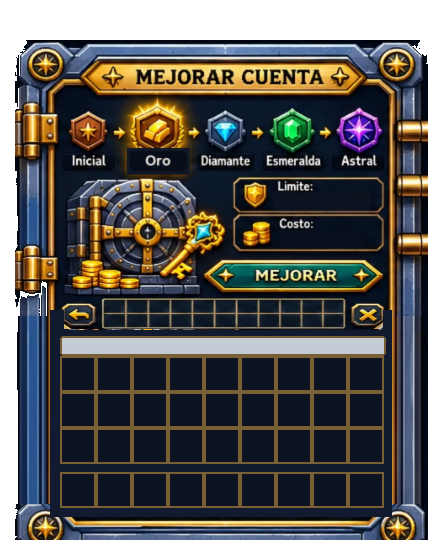
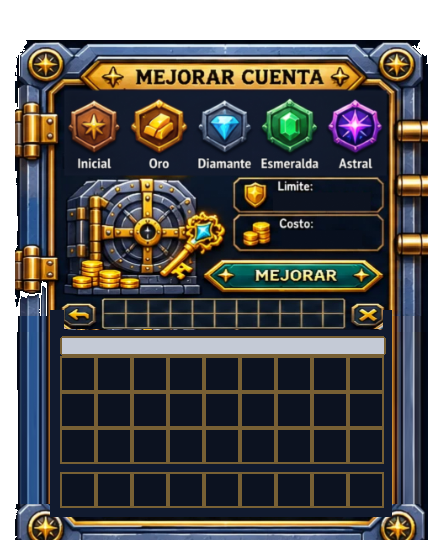
Banco: Mejorar cuenta remarca el nivel actual con arte de Gemini
- Fila de niveles redibujada por Gemini (sin brillo y con brillo); solo el nivel de la cuenta
  lleva brillo y borde dorado
- Una pantalla Mejorar por nivel (titulo banco.titulo::mejorarN elegido en astral_economia.sk)
- Banco: costados del inventario sin la sombra del perno y esquinas de abajo enteras

Changed region(s): [[0.1562, 0.1518, 0.875, 0.3036]]

diff --git a/datapack-src/ventanas_20_11.py b/datapack-src/ventanas_20_11.py
@@ -226,28 +226,42 @@ def _borrar(im, caja):
     ImageDraw.Draw(im).rectangle((x0, y0, x1 - 1, y1 - 1), fill=tuple(int(v) for v in np.median(anillo, 0)))
 
 
-def _oro_sin_resaltar(im):
-    """En 'Mejorar' la hoja marca 'Oro' como elegido; en el juego el siguiente nivel cambia: se deja como los demas."""
-    from PIL import ImageFont
-    caja = (148, 637, 222, 668)
-    a = np.asarray(im.convert('RGB')).astype(int)
-    fondo = tuple(int(v) for v in np.median(a[645:660, 280:300].reshape(-1, 3), 0))   # caja de 'Diamante'
-    d = ImageDraw.Draw(im)
-    d.rectangle(caja, fill=(16, 24, 40))
-    d.rounded_rectangle((152, 641, 218, 664), 4, fill=fondo)
-    try:
-        f = ImageFont.truetype('arialbd.ttf', 17)
-    except OSError:
-        f = ImageFont.load_default()
-    d.text((185, 652), 'Oro', fill=(240, 236, 226), font=f, anchor='mm')
+# Fila de niveles de 'Mejorar' redibujada por Gemini (20/11): una hoja sin brillo y otra con brillo, mismos lugares.
+NIVELES_HOJA = {k: SRC / f'niveles_{k}.jpg' for k in ('normal', 'brillo')}
+NIVELES_CORTE = (60, 380, 2700, 1100)             # fila entera en la hoja (2752x1536)
+NIVELES_LIMITES = (60, 576, 1119, 1629, 2168, 2700)   # columnas de cada nivel
+NIVELES_DESTINO = (70, 566, 460, 670)               # lugar de la fila en la hoja del Banco (px de la referencia)
 
 
-def banco(vista):
+def _fila_niveles(ref, nivel=None):
+    """Pone la fila de niveles: todos sin brillo y el nivel actual (1..4) con brillo."""
+    fila = Image.open(NIVELES_HOJA['normal']).convert('RGB')
+    if nivel:
+        brillo = Image.open(NIVELES_HOJA['brillo']).convert('RGB')
+        x0, x1 = NIVELES_LIMITES[nivel - 1], NIVELES_LIMITES[nivel]
+        m = Image.new('L', fila.size, 0)
+        ImageDraw.Draw(m).rectangle((x0 + 20, NIVELES_CORTE[1], x1 - 20, NIVELES_CORTE[3]), fill=255)
+        fila.paste(brillo, (0, 0), m.filter(ImageFilter.GaussianBlur(14)))
+    fila = fila.crop(NIVELES_CORTE)
+    dx0, dy0, dx1, dy1 = NIVELES_DESTINO
+    fila = fila.resize((dx1 - dx0, dy1 - dy0), Image.Resampling.LANCZOS)
+    # se borra la fila vieja (el recuadro dorado de 'Oro')
+    a = np.asarray(fila).astype(int)
+    fondo = tuple(int(v) for v in np.median(a[:20, :].reshape(-1, 3), 0))   # el azul de la hoja de Gemini
+    ImageDraw.Draw(ref).rectangle((dx0 + 4, dy0 + 2, dx1 - 4, 669), fill=fondo)
+    # bordes suaves para que el fondo de la hoja de Gemini se funda con el del panel
+    m = Image.new('L', fila.size, 0)
+    ImageDraw.Draw(m).rectangle((6, 4, fila.width - 7, fila.height - 5), fill=255)
+    ref.paste(fila, (dx0, dy0), m.filter(ImageFilter.GaussianBlur(4)))
+
+
+def banco(vista, nivel=None):
+    """nivel (solo 'mejorar'): 1..4 = cuenta actual (Inicial..Esmeralda), se remarca en la fila de niveles."""
     ref = Image.open(BANCO_REF).convert('RGB')
     for caja in BANCO_BORRAR[vista]:
         _borrar(ref, caja)
     if vista == 'mejorar':
-        _oro_sin_resaltar(ref)
+        _fila_niveles(ref, nivel)
     src = ref.filter(ImageFilter.GaussianBlur(0.5))
     ox, oy = BANCO_ORIGEN[vista]
     s = BANCO_ESCALA_X
@@ -290,7 +304,8 @@ def banco(vista):
 
 BANCO_VISTAS = ('banco', 'depositar', 'retirar', 'mejorar', 'movimiento', 'cuenta')
 PANELES = {'comisiones': comisiones, 'subastas_inicio': subastas_inicio,
-           **{f'banco_{v}': (lambda v=v: banco(v)) for v in BANCO_VISTAS}}
+           **{f'banco_{v}': (lambda v=v: banco(v)) for v in BANCO_VISTAS},
+           **{f'banco_mejorar{n}': (lambda n=n: banco('mejorar', n)) for n in (1, 2, 3, 4)}}
 
 
 def panel(kind):

diff --git a/datapack-src/economia.py b/datapack-src/economia.py
@@ -335,6 +335,7 @@ def skript():
               f'    set {{-eco.banco.costo::{i}}} to {costo}']
     import ventanas_19_11 as V
     L += ['    delete {-banco.titulo::*}'] + [f'    set {{-banco.titulo::{v}}} to "{V.titulo("banco_" + v)}"' for v in V.BANCO_VISTAS]
+    L += [f'    set {{-banco.titulo::mejorar{n}}} to "{V.titulo(f"banco_mejorar{n}")}"' for n in (1, 2, 3, 4)]
     L += [f'    set {{-eco.banco.max}} to {len(BANCO_NIVELES)}',
           '    if {astral.banco.proximo} is not set:',
           '        set {astral.banco.proximo} to {@horas} hours after now', '']
@@ -483,7 +484,10 @@ function astral_banco_menu(p: player, vista: text = "banco"):
     if {_vista} is "mejorar":
         if {_n} >= {-eco.banco.max}:
             set {_vista} to "cuenta"
-    set {_inv} to chest inventory with 6 rows named {-banco.titulo::%{_vista}%}
+    set {_tit} to {-banco.titulo::%{_vista}%}
+    if {_vista} is "mejorar":
+        set {_tit} to {-banco.titulo::mejorar%{_n}%} ? {_tit}
+    set {_inv} to chest inventory with 6 rows named {_tit}
     set {_cuenta} to "&7Cuenta: &f%{-eco.banco.nombre::%{_n}%}% &7(limite &e%{_lim}%$&7)"
     set {_int} to "&7Proximo interes: &a+%{_i}%$ &7en &f%{_falta}%"
     if {_vista} is "banco":

diff --git a/datapack-src/ventanas_19_11.py b/datapack-src/ventanas_19_11.py
@@ -23,9 +23,10 @@ START, END = '', ''
 W = 224
 BANCO_VISTAS = ('banco', 'depositar', 'retirar', 'mejorar', 'movimiento', 'cuenta')
 VENTANAS = {'cavernas_aviso': 4, 'comisiones': 6, 'efectos': 6, **{f'banco_{v}': 6 for v in BANCO_VISTAS},
-            'subastas_inicio': 3}
+            'subastas_inicio': 3, **{f'banco_mejorar{n}': 6 for n in (1, 2, 3, 4)}}
 # Fondos nuevos a doble resolucion (disenos Gemini 20/11, ventanas_20_11.py): reemplazan al armado de aca.
-NUEVAS_2011 = ('comisiones', 'subastas_inicio', *(f'banco_{v}' for v in BANCO_VISTAS))
+NUEVAS_2011 = ('comisiones', 'subastas_inicio', *(f'banco_{v}' for v in BANCO_VISTAS),
+               *(f'banco_mejorar{n}' for n in (1, 2, 3, 4)))   # Mejorar con el nivel actual remarcado
 # Piezas del Banco que ahora estan dibujadas en el fondo (20/11): el item queda invisible (solo nombre y lore).
 BANCO_INVISIBLES = ('b_depositar', 'b_retirar', 'b_mejorar_cuenta', 'b_todo', 'b_mitad', 'b_otra', 'b_atras', 'b_cerrar',
                     'b_confirmar_dep', 'b_confirmar_ret', 'b_mejorar', 'b_volver_banco', 'i_saldo', 'i_encima', 'i_cuenta', 'i_limite')

diff --git a/datapack-src/deploy_ventanas_20_11.py b/datapack-src/deploy_ventanas_20_11.py
@@ -11,7 +11,7 @@ from deploy_guia_esc import rewrite
 from final_base import select_base
 from terceros import privado
 
-OUT = privado() / 'build/entregas/ventanas-20-11-banco-ref3'
+OUT = privado() / 'build/entregas/ventanas-20-11-niveles'
 FONT = 'assets/minecraft/font/default.json'
 
 
